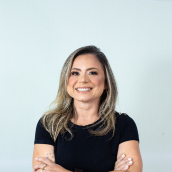
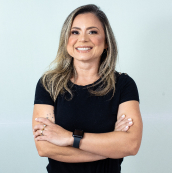
fix: crop team photos

diff --git a/index.html b/index.html
@@ -2,9 +2,33 @@
 <html lang="pt-br">
 
 <head>
-  <title>Colégio In</title>
+  <title>Colégio In Belém</title>
   <meta charset="utf-8">
   <meta name="viewport" content="width=device-width, initial-scale=1, shrink-to-fit=no">
+  <meta name="description"
+    content="Colégio In Belém. Conheça um projeto educacional humanista, progressista, inclusivo, democrático, laico e competitivo.">
+  <meta name="keywords"
+    content="escola em belém, colégio em belém, colégio integrado, escola inclusiva em belém, colégio humanista em belém">
+  <meta name="author" content="Daniel Santos">
+  <link rel="canonical" href="https://colegioin.com/">
+  <meta property="og:locale" content="pt_BR">
+  <meta property="og:type" content="website">
+  <meta property="og:title" content="Colégio In Belém - Uma nova escola, para um novo momento.">
+  <meta property="og:description"
+    content="Conheça um projeto educacional humanista, progressista, inclusivo, democrático, laico e competitivo.">
+  <meta property="og:image" content="https://colegioin.com/images/about-img.jpg">
+  <meta property="og:image:type" content="image/jpeg">
+  <meta property="og:image:width" content="800">
+  <meta property="og:image:height" content="600">
+  <meta property="og:url" content="https://colegioin.com/">
+  <meta property="og:site_name" content="Colégio In Belém">
+  <meta name="twitter:card" content="summary">
+  <meta name="twitter:description"
+    content="Conheça um projeto educacional humanista, progressista, inclusivo, democrático, laico e competitivo.">
+  <meta name="twitter:title" content="Colégio In Belém - Uma nova escola, para um novo momento.">
+  <meta name="twitter:site" content="@colegioinbelem">
+  <meta name="twitter:image" content="https://colegioin.com/images/about-img.jpg">
+  <meta name="twitter:creator" content="@colegioinbelem">
 
   <link href="https://fonts.googleapis.com/css?family=DM+Sans:300,400,700|Indie+Flower" rel="stylesheet">
 
@@ -40,10 +64,12 @@
           <div class="row align-items-center overlay">
             <div class="offset-md-6 col-md-5 mt-5 pt-5 d-none d-sm-flex flex-column">
               <span class="text-cursive h5 text-red"></span>
-              <h1 class="mb-3 font-weight-bold text-secondary-custom banner__title">Colégio In<span class="text-primary-custom">.</span></h1>
+              <h1 class="mb-3 font-weight-bold text-secondary-custom banner__title">Colégio In <span
+                  class="d-none">Belém</span><span class="text-primary-custom">.</span></h1>
               <p class="banner__subtitle">Uma nova escola, para um novo momento</p>
-              <a href="https://linktr.ee/Colegioinbelem" class="btn bg-primary-custom text-white font-weight-bold">Inscreva-se</a>
-            </div>            
+              <a href="https://linktr.ee/Colegioinbelem"
+                class="btn bg-primary-custom text-white font-weight-bold">Inscreva-se</a>
+            </div>
           </div>
         </div>
       </div>
@@ -65,11 +91,12 @@
           </div>
           <div class="col-md-6">
             <h3 class="text-primary-custom font-weight-bold">Quem Somos</h3>
-            <p ><span>O Colégio In nasceu do sonho de vários corações, movidos pela vontade de construir uma escola
+            <p><span>O Colégio In nasceu do sonho de vários corações, movidos pela vontade de construir uma escola
                 competitiva e, ao mesmo tempo, formada por valores humanitários. Nesse intuito, cultivamos um projeto
                 educacional humanista, progressista, inclusivo, democrático, laico e competitivo.</p>
 
-            <p class="mb-0 pt-2"><a href="about.html" class="btn bg-secondary-custom py-4 btn-custom-1 font-weight-bold">Saiba Mais</a>
+            <p class="mb-0 pt-2"><a href="about.html"
+                class="btn bg-secondary-custom py-4 btn-custom-1 font-weight-bold">Saiba Mais</a>
             </p>
           </div>
         </div>
@@ -89,19 +116,23 @@
             <div class="package d-flex flex-column text-center bg-white">
               <span class="img-wrap"><img src="images/training.svg" alt="Image" class="img-fluid"></span>
               <h3 class="text-primary-custom font-weight-bold package__title">Ensino Fundamental II</h3>
-              <p class="d-none">Esta é uma fase em que o estudante está em constante desenvolvimento. O Colégio Integrado oferece uma
+              <p class="d-none">Esta é uma fase em que o estudante está em constante desenvolvimento. O Colégio
+                Integrado oferece uma
                 metodologia inovadora e
                 humanizadora para os seus alunos.</p>
-              <p><a href="fundamental-ii.html" class="btn bg-primary-custom text-white btn-custom-1 mt-4 font-weight-bold">Saiba Mais</a></p>
+              <p><a href="fundamental-ii.html"
+                  class="btn bg-primary-custom text-white btn-custom-1 mt-4 font-weight-bold">Saiba Mais</a></p>
             </div>
           </div>
           <div class="col-lg-6 col-12 mb-4 mb-lg-0">
             <div class="package text-center bg-white h-100">
               <span class="img-wrap"><img src="images/reading.svg" alt="Image" class="img-fluid"></span>
               <h3 class="text-secondary-custom font-weight-bold package__title">Ensino Médio</h3>
-              <p class="d-none"> Essa fase é desenvolvida pelo Colégio Integrado, de forma competitiva, ética e visando a
+              <p class="d-none"> Essa fase é desenvolvida pelo Colégio Integrado, de forma competitiva, ética e visando
+                a
                 potencialidade intelectual do indivíduo.</p>
-              <p class=""><a href="regular-high-school.html" class="btn bg-secondary-custom btn-custom-1 mt-4 font-weight-bold">Saiba Mais</a>
+              <p class=""><a href="regular-high-school.html"
+                  class="btn bg-secondary-custom btn-custom-1 mt-4 font-weight-bold">Saiba Mais</a>
               </p>
             </div>
           </div>
@@ -112,19 +143,22 @@
             <div class="package text-center bg-white">
               <span class="img-wrap"><img src="images/knowledge.svg" alt="Image" class="img-fluid"></span>
               <h3 class="text-secondary-custom font-weight-bold package__title">Pré-vestibular</h3>
-              <p class="d-none">Seu sonho é passar no vestibular? O nosso é ajudá-lo a chegar até lá. Por isso, conte conosco para ter
+              <p class="d-none">Seu sonho é passar no vestibular? O nosso é ajudá-lo a chegar até lá. Por isso, conte
+                conosco para ter
                 a proposta pedagógica e a equipe de educadores que vai lhe auxiliar a ter sucesso na sua trajetória.</p>
-              <p><a href="pre.html" class="btn bg-secondary-custom btn-custom-1 mt-4 font-weight-bold">Saiba Mais</a></p>
+              <p><a href="pre.html" class="btn bg-secondary-custom btn-custom-1 mt-4 font-weight-bold">Saiba Mais</a>
+              </p>
             </div>
           </div>
           <div class="col-lg-6 col-12 mb-4 mb-lg-0">
             <div class="package text-center bg-white h-100">
-              <span class="img-wrap"><img src="images/united-states.svg" alt="Image"
-                  class="img-fluid"></span>
+              <span class="img-wrap"><img src="images/united-states.svg" alt="Image" class="img-fluid"></span>
               <h3 class="text-primary-custom font-weight-bold package__title">INEnglish</h3>
-              <p class="d-none">Estudar Inglês nunca foi tão fácil e torna-se ainda mais prático, fácil e imersivo quando a sua própria
+              <p class="d-none">Estudar Inglês nunca foi tão fácil e torna-se ainda mais prático, fácil e imersivo
+                quando a sua própria
                 escola oferece essa possibilidade.</p>
-              <p><a href="high-school-in.html" class="btn bg-primary-custom text-white btn-custom-1 mt-4 font-weight-bold">Saiba Mais</a></p>
+              <p><a href="high-school-in.html"
+                  class="btn bg-primary-custom text-white btn-custom-1 mt-4 font-weight-bold">Saiba Mais</a></p>
             </div>
           </div>
         </div>
@@ -135,7 +169,8 @@
               <h3 class="text-secondary-custom font-weight-bold package__title">Cursos Específicos</h3>
               <p class="d-none">Os Cursos do In são uma excelente pedida para os estudantes que
                 desejam melhorar ou aprimorar uma área específica de conhecimento. </p>
-              <p><a href="courses.html" class="btn bg-secondary-custom btn-custom-1 mt-4 font-weight-bold">Saiba Mais</a></p>
+              <p><a href="courses.html" class="btn bg-secondary-custom btn-custom-1 mt-4 font-weight-bold">Saiba
+                  Mais</a></p>
             </div>
           </div>
 
@@ -143,13 +178,14 @@
             <div class="package text-center bg-white">
               <span class="img-wrap"><img src="images/book.svg" alt="Image" class="img-fluid"></span>
               <h3 class="text-primary-custom font-weight-bold package__title">Internacional</h3>
-              <p><a href="inter.html" class="btn bg-primary-custom btn-custom-1 mt-4 font-weight-bold text-white">Saiba Mais</a></p>
+              <p><a href="inter.html" class="btn bg-primary-custom btn-custom-1 mt-4 font-weight-bold text-white">Saiba
+                  Mais</a></p>
             </div>
           </div>
-          
+
         </div>
 
-        
+
       </div>
     </div>
 
@@ -165,7 +201,7 @@
         </div>
         <div class="row align-items-stretch">
 
-          
+
           <div class="col-lg-4 col-md-6 mb-5">
             <div class="post-entry-1 h-100 person-1 yellow">
 
@@ -174,7 +210,7 @@
               <div class="post-entry-1-contents">
                 <span class="meta">História e Sociologia</span>
                 <h2>Jean Rendeiro</h2>
-                <p> 
+                <p>
                   <a target="_blank" href="https://www.instagram.com/rendeirojean"><i class="icon-instagram"></i></a>
                 </p>
               </div>
@@ -229,9 +265,10 @@
               <div class="post-entry-1-contents">
                 <span class="meta">Química</span>
                 <h2>Rayanne Moreira </h2>
-                <p> 
-                  <a target="_blank" href="https://www.instagram.com/rayanne.moreira1"><i class="icon-instagram"></i></a>
-                  </p>
+                <p>
+                  <a target="_blank" href="https://www.instagram.com/rayanne.moreira1"><i
+                      class="icon-instagram"></i></a>
+                </p>
               </div>
             </div>
           </div>
@@ -251,7 +288,8 @@
 
 
         </div>
-        <p class="mt-5 text-center"><a href="team.html" class="btn bg-primary-custom text-white py-4 btn-custom-1 font-weight-bold">Saiba Mais</a></p>
+        <p class="mt-5 text-center"><a href="team.html"
+            class="btn bg-primary-custom text-white py-4 btn-custom-1 font-weight-bold">Saiba Mais</a></p>
 
 
         <!-- <div class="row align-items-stretch">
@@ -344,6 +382,41 @@
       </div>
     </div>
 
+    <div class="site-section bg-light">
+      <div class="container">
+        <div class="row mb-5">
+          <div class="col-12 text-center">
+            <h2 class="text-primary-custom font-weight-bold">Notícias</h2>
+          </div>
+        </div>
+        <div class="row justify-content-center">
+          <div class="col-md-8">
+            <div class="testimonial-3-wrap bg-primary-custom">
+
+
+              <div class="owl-carousel nonloop-block-13">
+                <div class="testimonial-3 d-flex">
+                  <!-- <div class="vcard-wrap mr-5">
+                    <img src="images/person_1.jpg" alt="Image" class="vcard img-fluid">
+                  </div> -->
+                  <div class="text">
+                    <h3>Título</h3>
+                    <p class="position">Data</p>
+                    <p>Lorem ipsum dolor sit amet, consectetur adipisicing elit. Aliquam earum libero rem maxime magnam.
+                      Similique esse ab earum, autem consectetur.</p>
+                  </div>
+                </div>
+
+
+              </div>
+
+            </div>
+          </div>
+        </div>
+
+      </div>
+    </div>
+
 
 
     <div class="site-section py-5 bg-secondary-custom" id="cta-container">
@@ -351,8 +424,8 @@
 
 
 
-    <footer class="site-footer" >
-      <div class="container" >
+    <footer class="site-footer">
+      <div class="container">
         <div id="footer-container"></div>
         <div class="row pt-5 mt-5 text-center">
           <div class="col-md-12">
